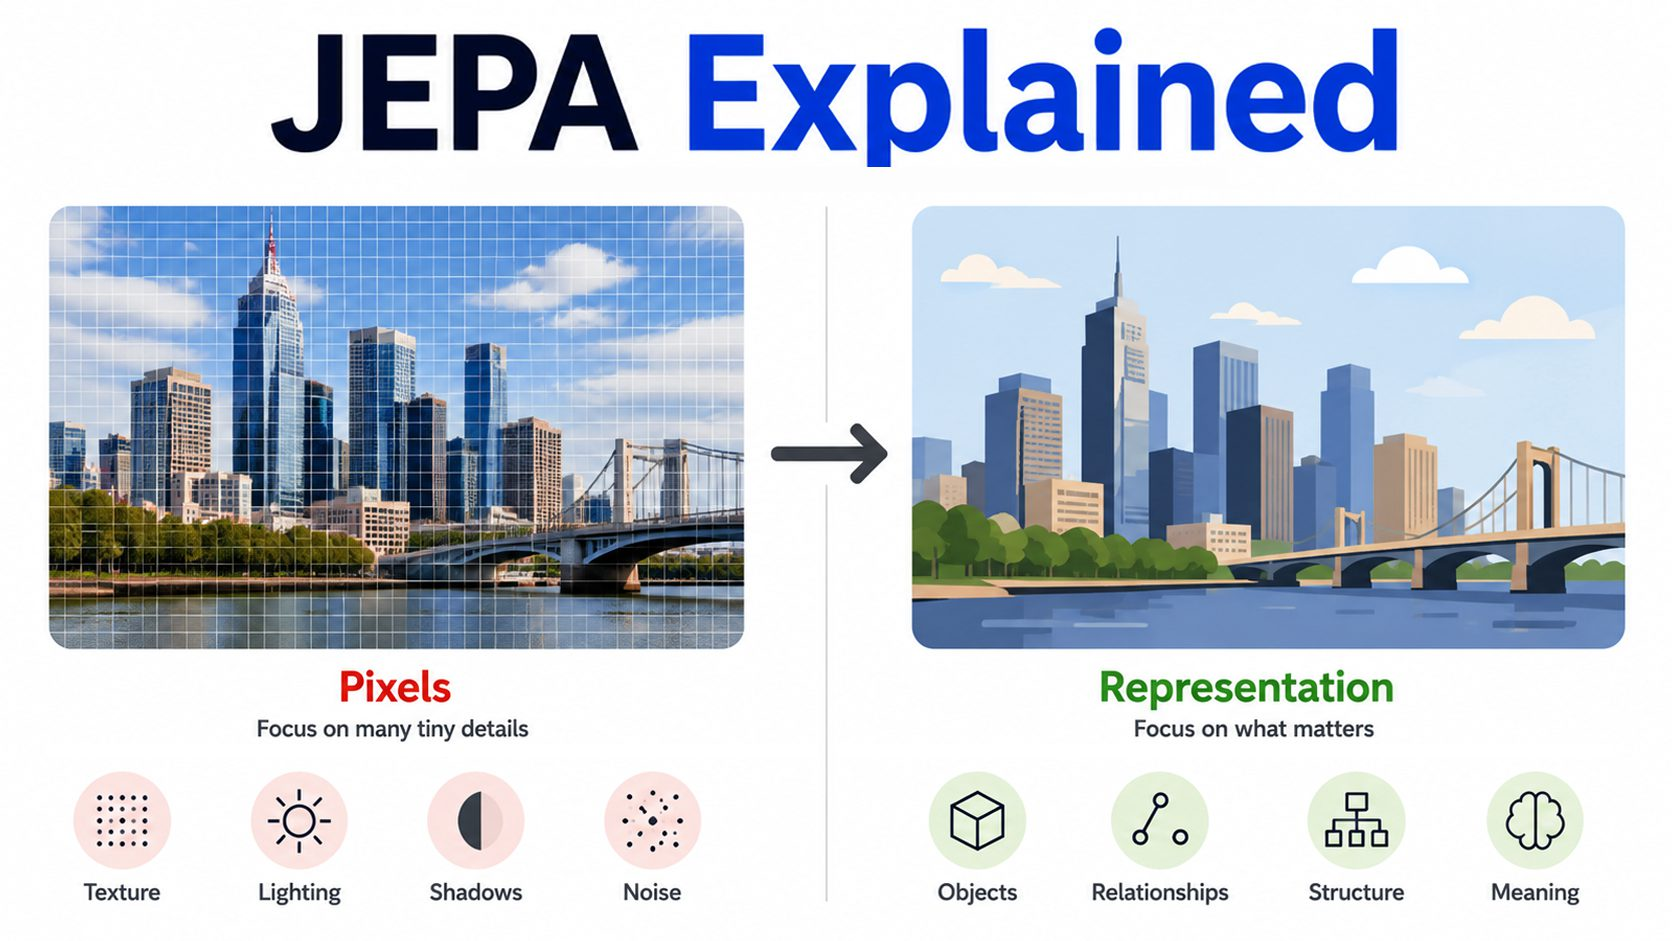
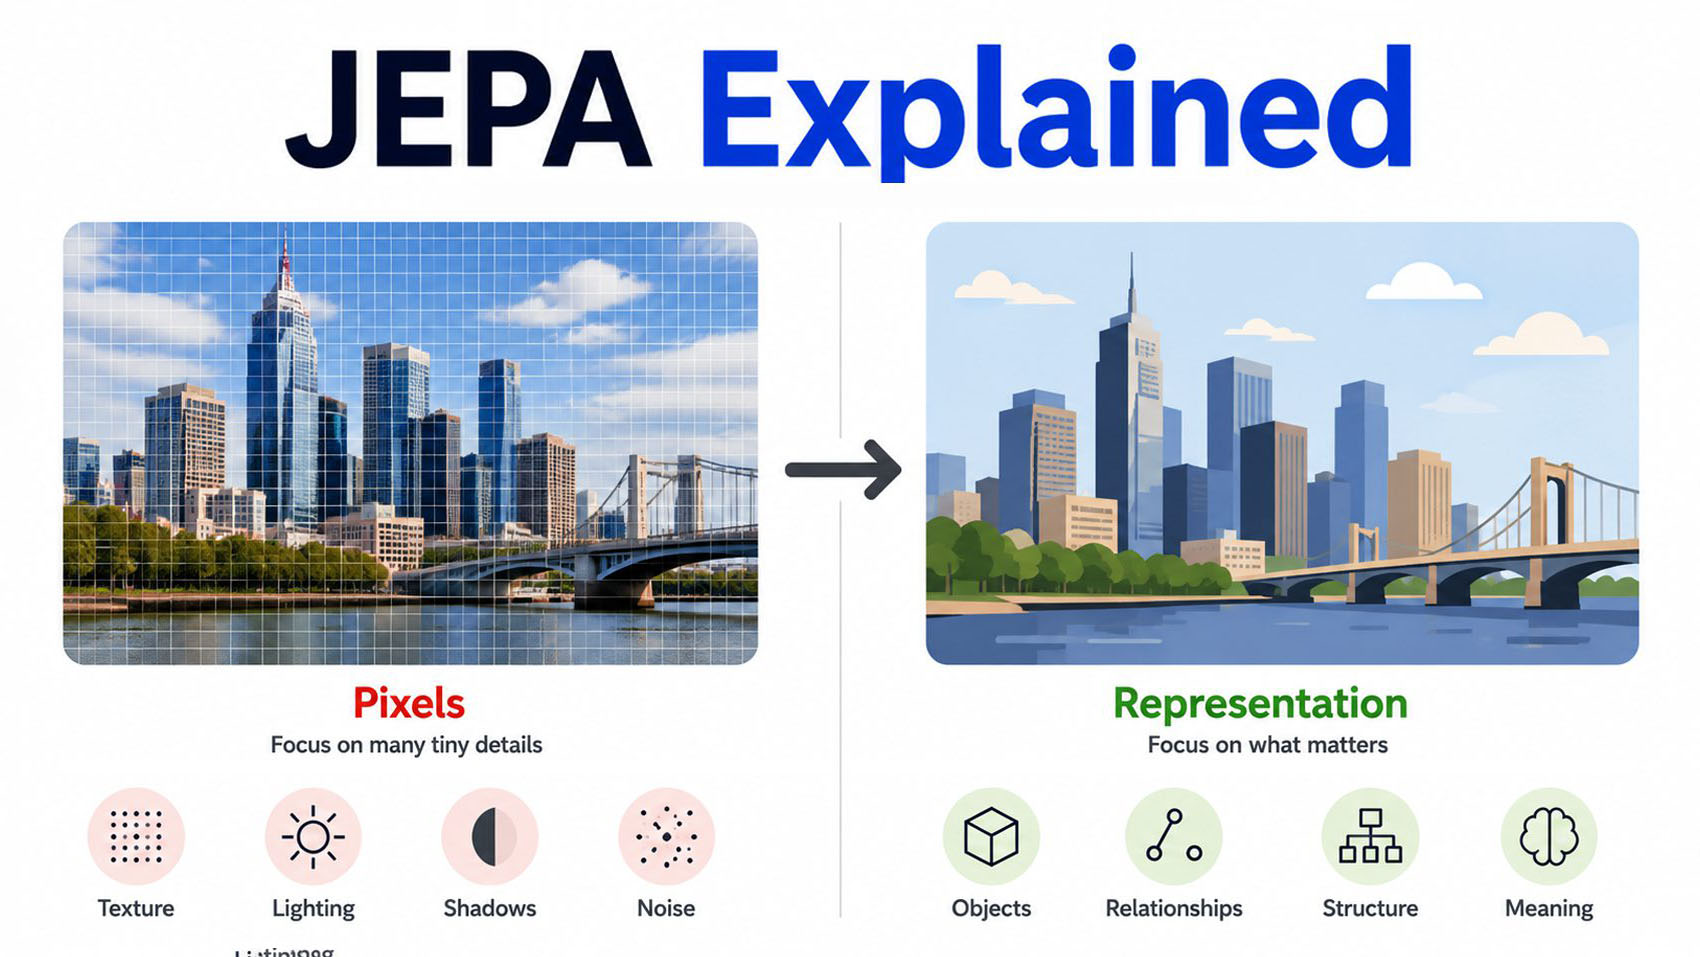
Resume update; Subtle UI Fix

diff --git a/index.html b/index.html
@@ -281,13 +281,13 @@
           <div class="skill-group">
             <span class="skill-group-label">Languages</span>
             <div class="skill-cloud">
-              <span>Python</span><span>SQL</span><span>R</span><span>Java</span><span>C/C++</span>
+              <span>Python</span><span>SQL</span><span>R</span>
             </div>
           </div>
           <div class="skill-group">
             <span class="skill-group-label">AI &amp; ML</span>
             <div class="skill-cloud">
-              <span>TensorFlow</span><span>PyTorch</span><span>Scikit-learn</span>
+              <span>TensorFlow</span><span>PyTorch</span><span>Scikit-learn</span><span>MLflow</span>
             </div>
           </div>
           <div class="skill-group">
@@ -299,7 +299,7 @@
           <div class="skill-group">
             <span class="skill-group-label">Computer Vision &amp; NLP</span>
             <div class="skill-cloud">
-              <span>OpenCV</span><span>NLTK</span><span>SpaCy</span><span>Gensim</span>
+              <span>OpenCV</span><span>NLTK</span><span>SpaCy</span><span>Word2Vec</span>
             </div>
           </div>
           <div class="skill-group">
@@ -323,7 +323,7 @@
           <div class="skill-group">
             <span class="skill-group-label">Cloud &amp; Deployment</span>
             <div class="skill-cloud">
-              <span>AWS</span><span>MLflow</span><span>Git/GitHub</span><span>Docker</span><span>Vercel</span>
+              <span>AWS</span><span>Git/GitHub</span><span>Docker</span><span>Vercel</span>
             </div>
           </div>
         </div>